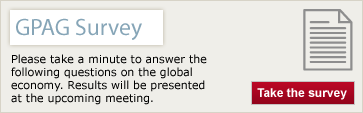
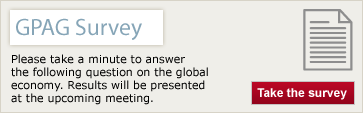
792343.02b favor

Changed region(s): [[0.0303, 0.5841, 0.5758, 0.6903], [0.5152, 0.4779, 0.5758, 0.5575]]

diff --git a/index.html b/index.html
@@ -141,7 +141,7 @@ $(window).load(function() {
                                             <td width="442" align="left" class="secondaryDescription"><a
                                             href="http://www.insightexpress.com/ix/Survey.aspx?id=212886&amp;accessCode=4514698918&amp;">
                                                 <img src="images/banner793933.png"
-                                                alt="GPAG Survey – Please take a minute to answer the following questions on the global economy. Results will be presented at the upcoming meeting." width="363" height="113" border="0" align="right" />
+                                                alt="GPAG Survey – Please take a minute to answer the following question on the global economy. Results will be presented at the upcoming meeting." width="363" height="113" border="0" align="right" />
                                                 </a></td>
                                         </tr>
                                         <tr>
